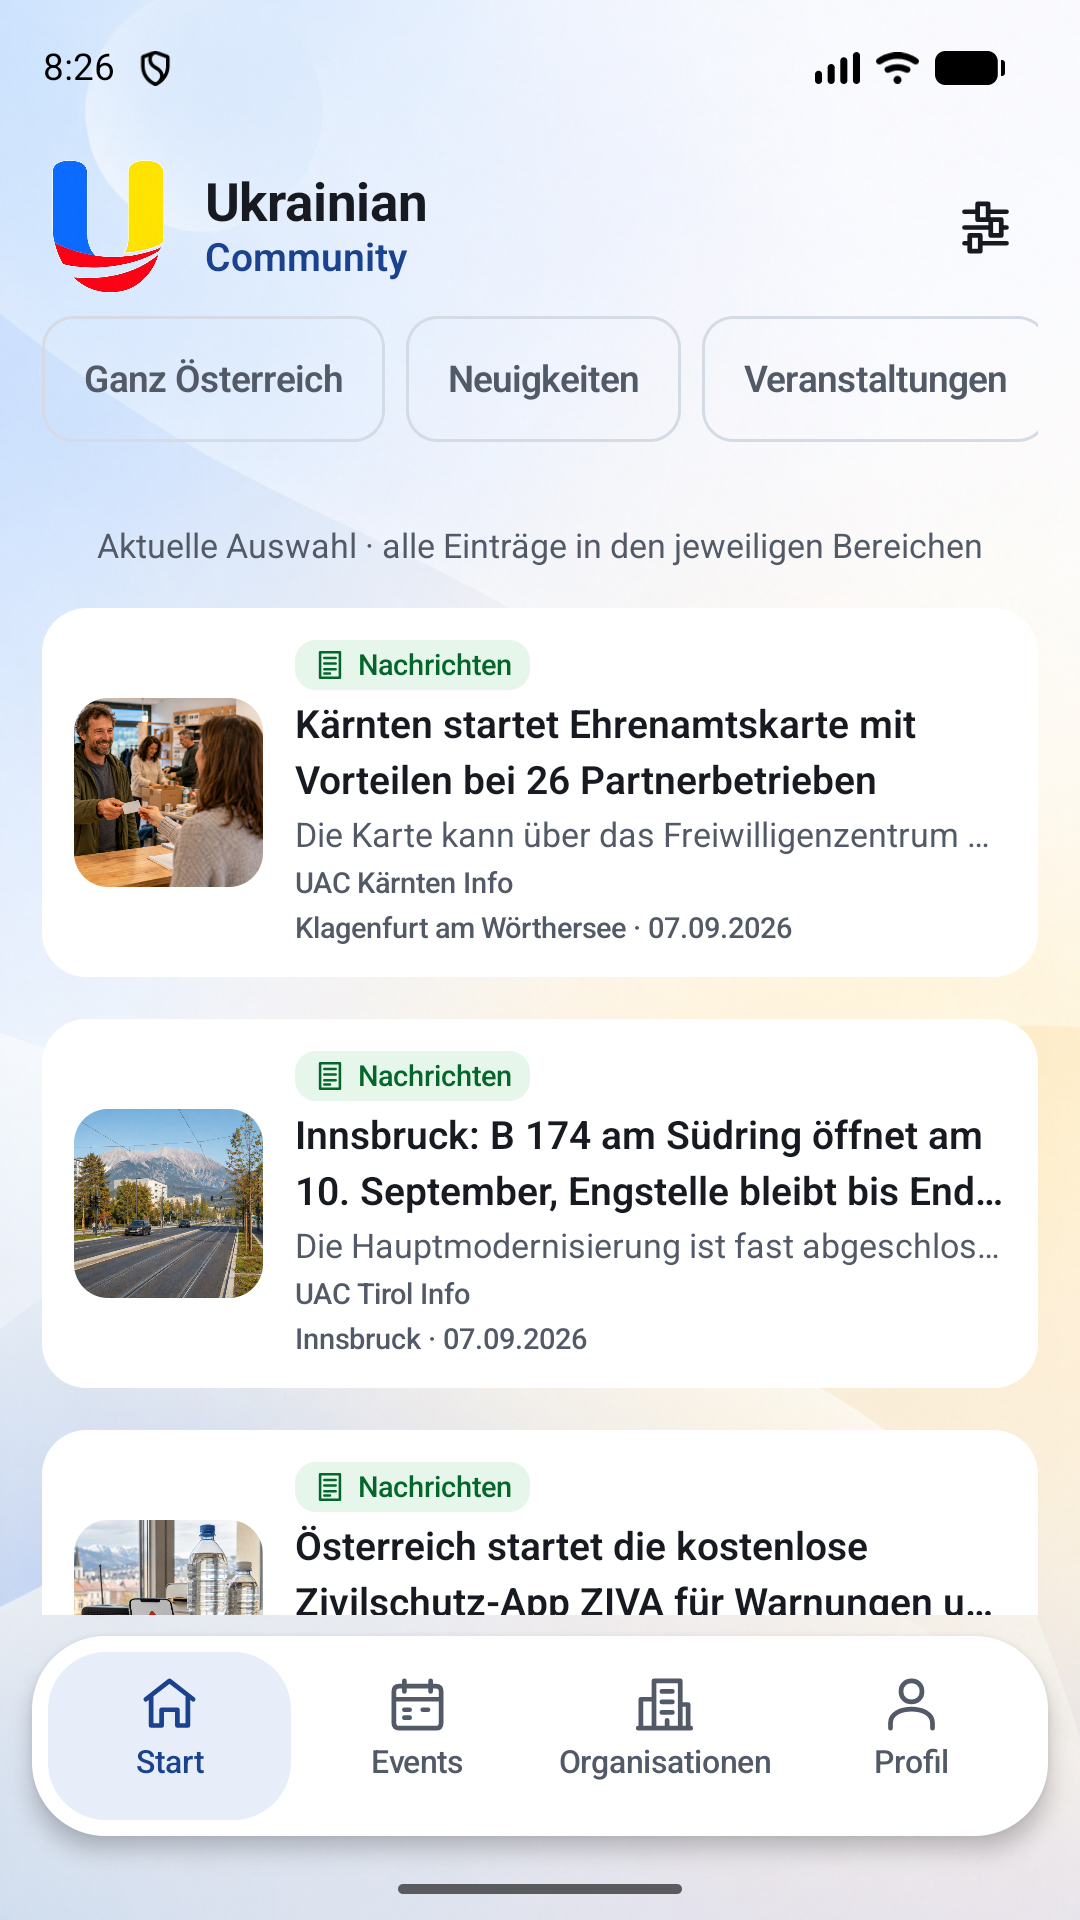
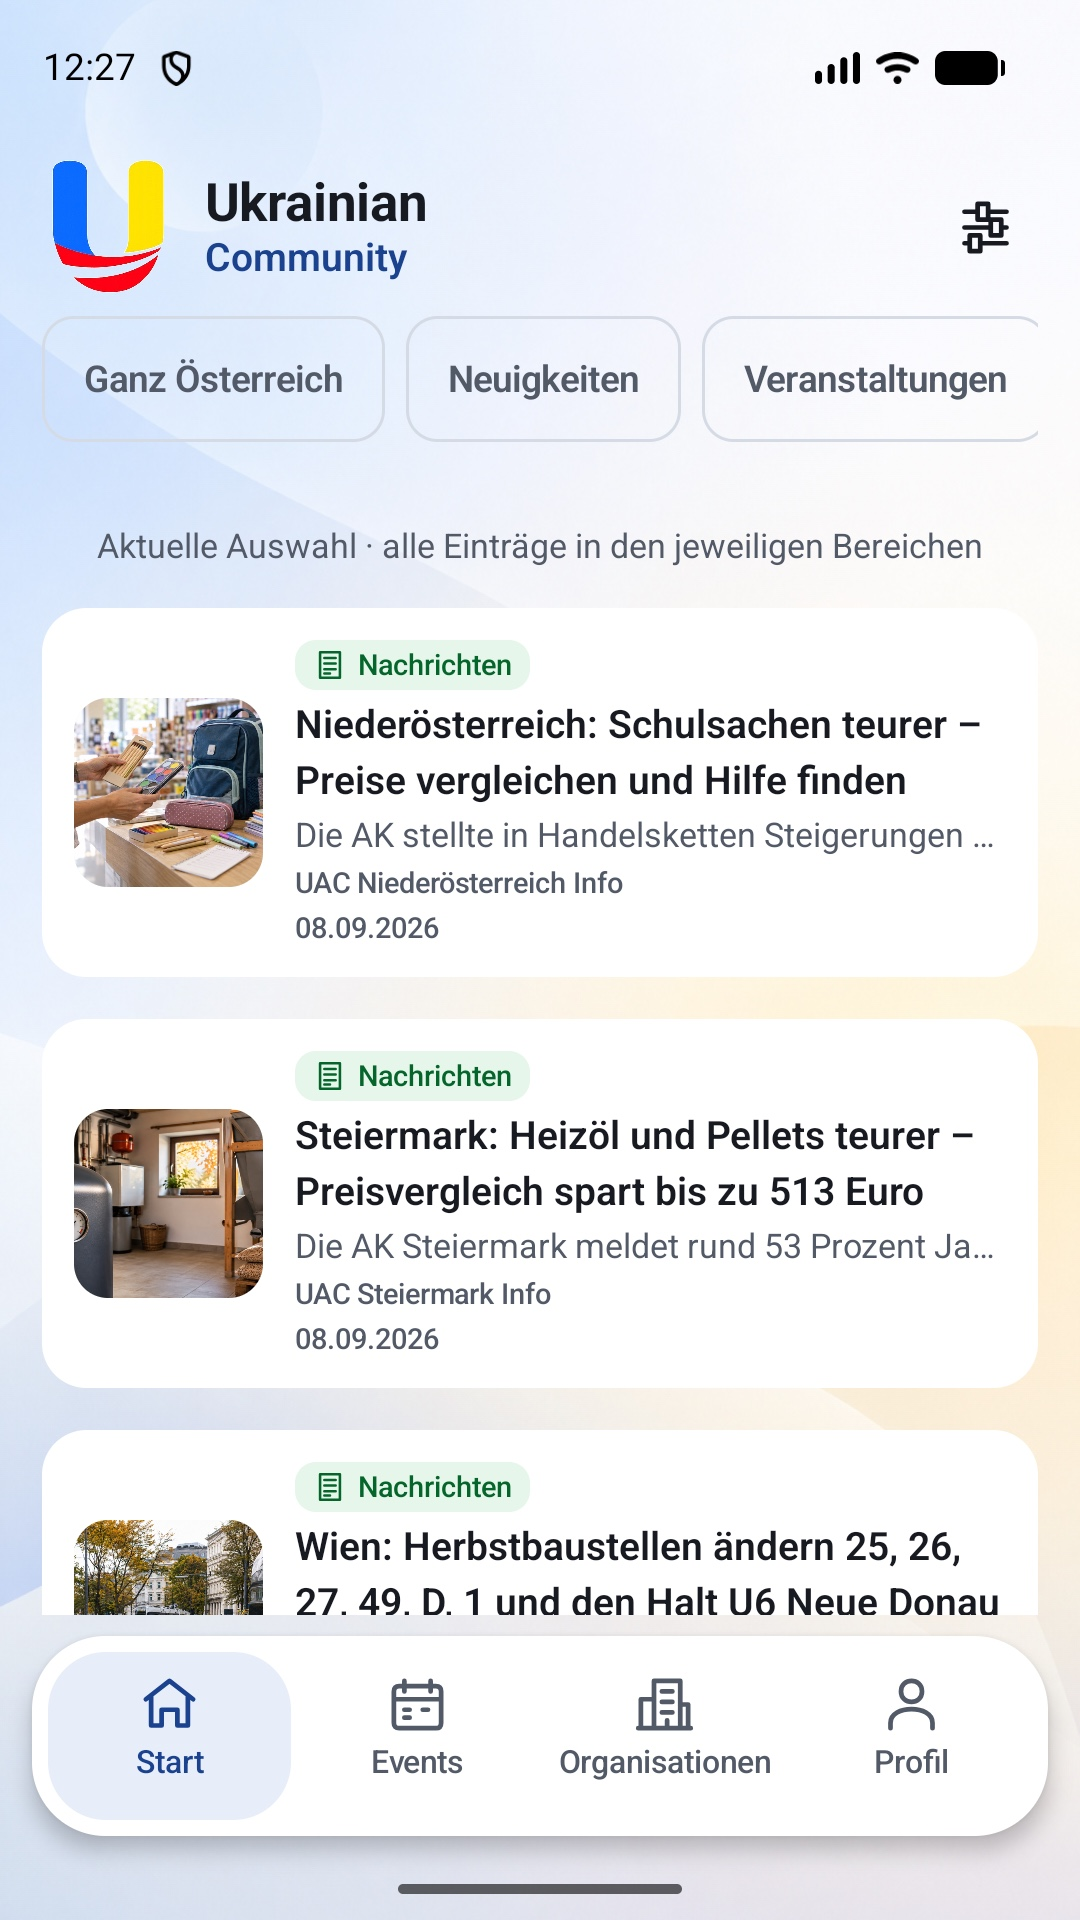
Refresh Google Play build 79 submission pack

diff --git a/Docs/AndroidPlaySubmissionDraft-2026-09-07.md b/Docs/AndroidPlaySubmissionDraft-2026-09-07.md
@@ -1,4 +1,4 @@
-# Google Play submission draft — Android 1.0.3 build 72
+# Google Play submission draft — Android 1.0.3 build 79
 
 Status: **draft only, not approved for submission**. This file prepares Play Console
 copy and declarations from the repository state on 2026-09-07. It does not prove a
@@ -7,9 +7,11 @@ approval, or publication.
 
 Application ID: `at.serlest.ukrainiancommunity`
 
-Planned first Play version: `versionCode 72`, `versionName 1.0.3`
+Planned first Play version: `versionCode 79`, `versionName 1.0.3`
 
-Source candidate: commit `2e0ee59` on `codex/android-build72-20260907`.
+Source candidate: build-79 audit/hardening commit `a02a65f` on
+`codex/android-build72-20260907`, plus the subsequently refreshed store assets in
+this submission packet.
 
 Default listing language: German (`de-DE`)
 
@@ -100,11 +102,11 @@ from the release scope.
 
 | Field | Proposed URL | Status before submission |
 | --- | --- | --- |
-| Privacy policy | `https://ukrainiancommunity-dbd5f.web.app/privacy` | **BLOCKED:** HTTP 200 read back on 2026-09-07, but published 2026.13 explicitly scopes itself to iOS. Publish and read back an approved bilingual cross-platform revision first. |
-| Account deletion | `https://ukrainiancommunity-dbd5f.web.app/delete-account` | **BLOCKED:** repository page exists and covers iOS/Android, but public read-back returned HTTP 404 on 2026-09-07. |
-| Support | `https://ukrainiancommunity-dbd5f.web.app/support` | HTTP 200 on 2026-09-07, but the live page still names only iOS settings/device details. The repository source is already cross-platform; deploy/read back only with the approved legal/Hosting release. |
-| Website | `https://ukrainiancommunity-dbd5f.web.app/` | Existing site; verify availability immediately before submission. |
-| Illegal-content reporting | `https://ukrainiancommunity-dbd5f.web.app/report-illegal-content` | Relevant to UGC/DSA review; verify availability and submission behavior separately. |
+| Privacy policy | `https://ukrainiancommunity-dbd5f.web.app/privacy` | **BLOCKED:** HTTP 200 read back on 2026-09-08, but the live page names iOS and FCM while still lacking the prepared Android/Play Integrity scope. Publish and read back an approved bilingual cross-platform revision first. |
+| Account deletion | `https://ukrainiancommunity-dbd5f.web.app/delete-account` | **BLOCKED:** repository page exists and covers iOS/Android, but public read-back still returns HTTP 404 on 2026-09-08. |
+| Support | `https://ukrainiancommunity-dbd5f.web.app/support` | HTTP 200 on 2026-09-08, but the live page still names only iOS settings/device details. The repository source is already cross-platform; deploy/read back only with the approved legal/Hosting release. |
+| Website | `https://ukrainiancommunity-dbd5f.web.app/` | HTTP 200 on 2026-09-08; verify again immediately before submission. |
+| Illegal-content reporting | `https://ukrainiancommunity-dbd5f.web.app/report-illegal-content` | HTTP 200 on 2026-09-08; form submission and operational response remain separate checks. |
 
 ### Account-deletion page audit
 
@@ -277,8 +279,8 @@ Required/prepared state:
 | Asset | Play requirement | Current evidence | Action |
 | --- | --- | --- | --- |
 | Store icon | 512 × 512 PNG, Play asset separate from the launcher resource | `Android/release/play/store-icon-512.png`, 512 × 512, no alpha, visually checked; derived without redesign from the current 1024 × 1024 app icon | Reconfirm against the signed AAB and approve for upload. |
-| Feature graphic | 1024 × 500, JPEG or 24-bit PNG without alpha | `Android/release/play/feature-graphic-build72.png`, 1024 × 500, no alpha, text-free and visually checked | Brand-owner approval remains required before upload. |
-| Phone screenshots | At least two are needed for a publishable store listing; use current Play constraints and accurate in-app imagery | Four audit captures exist at 1080 × 2424, but they show development/audit state and are not a signed-release store set | Capture clean final-AAB guest and signed-in screens; provide separate DE/UK images wherever text is visible. |
+| Feature graphic | 1024 × 500, JPEG or 24-bit PNG without alpha | `Android/release/play/feature-graphic-build79.png`, 1024 × 500, no alpha, text-free and visually checked | Brand-owner approval remains required before upload. |
+| Phone screenshots | At least two are needed for a publishable store listing; use current Play constraints and accurate in-app imagery | Four DE and four UK guest captures were refreshed from the exact upload-signed, R8-minified build-79 production APK at 1080 × 1920 and visually checked | Confirm marketing rights for every visible public-content photo; replace uncertain images with owner-controlled content before upload. |
 | Tablet/other form factors | Required only when distributing/optimizing for the applicable form factor, subject to the current Console prompts | No release tablet screenshot proof | Decide supported devices after Play device-catalog review; do not imply optimized tablet UX without testing. |
 | Promo video | Optional | Missing | Omit for first release unless a final localized video is prepared. |
 

diff --git a/Android/release/play/README.md b/Android/release/play/README.md
@@ -1,12 +1,16 @@
-# Google Play graphics — build 72 candidate
+# Google Play graphics — build 79 candidate
 
 These files are prepared assets, not proof of Play Console upload or brand-owner
 approval.
 
+Capture source: final signed production APK SHA-256
[1 lines of base64/hex data omitted]
+package `at.serlest.ukrainiancommunity`, version `1.0.3 (79)`.
+
 | File | Required size | Verified | SHA-256 |
 | --- | --- | --- | --- |
[3 lines of base64/hex data omitted]
 
 The store icon is a deterministic downscale of the current 1024 × 1024 Android
 app image. The feature graphic was produced with the built-in image generator and
@@ -28,9 +32,9 @@ against the exact signed release candidate.
 ## Phone screenshot candidates
 
 The localized candidates under `screenshots/de-DE/` and `screenshots/uk/` were
-captured from the upload-key-signed, R8-minified production release on the API 37
-Play AVD at 1080 x 1920. They are RGB JPEG files without test labels, synthetic
-accounts, private identifiers or debug overlays.
+refreshed on 2026-09-08 from the exact upload-key-signed, R8-minified build-79
+production APK on the API 37 Play AVD at 1080 x 1920. They are RGB JPEG files
+without test labels, synthetic accounts, private identifiers or debug overlays.
 
 Each locale contains the same four-screen story:
 

diff --git a/Docs/AndroidBuild79Audit-2026-09-08.md b/Docs/AndroidBuild79Audit-2026-09-08.md
@@ -120,6 +120,9 @@ Fresh checks confirm:
 - analytics and user-management build-79 layouts are covered at normal and 200% font.
 - on API 26 at 200% text, the final production navigation uses a readable two-by-two
   arrangement with complete labels instead of splitting `Organisationen` mid-word.
+- the Play phone set was refreshed from the final signed production APK at normal
+  text: four clean 1080 × 1920 captures in each of DE and UK. Third-party image
+  marketing rights still require owner confirmation before upload.
 
 Evidence is stored in `outputs/android-build79-audit/` (including
 `production-home-api26-font200.png` and `api37-font200-navigation-grid.png`) and
